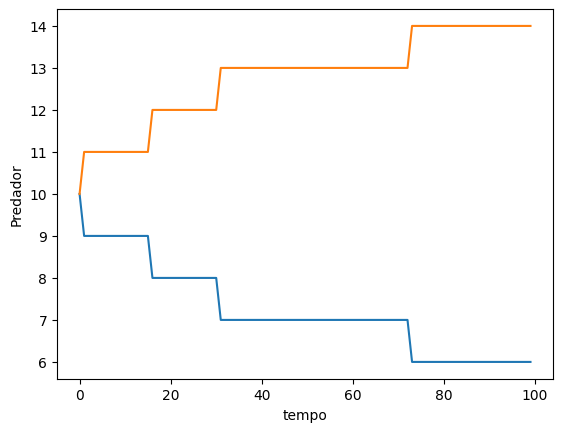
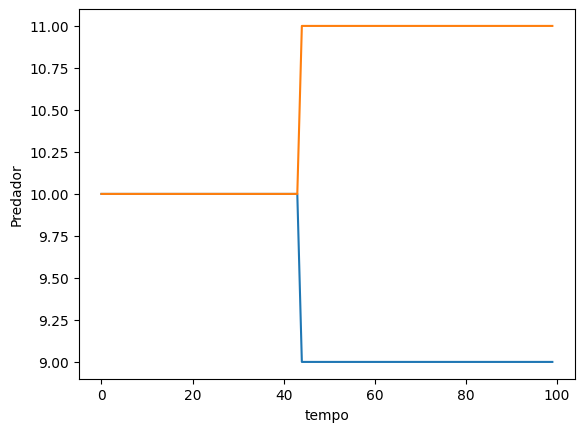
update

diff --git a/IBS_2-0.py b/IBS_2-0.py
@@ -24,7 +24,7 @@ class Predador:
     
     
 
-L = 10
+L = 50
 
 
 matrix = np.zeros((L, L))
@@ -32,26 +32,24 @@ matrix = np.zeros((L, L))
 Predadores = []
 
 def gerarPresa():
-    presa_x = np.random.randint(2,L-2)
-    presa_y = np.random.randint(2,L-2)
-    matrix[presa_x][presa_y] = 1
-    matrix[presa_x][presa_y+1] = 1
-    matrix[presa_x+1][presa_y] = 1
-    matrix[presa_x+1][presa_y+1] = 1  
+    presa_x = np.random.randint(0,L-1)
+    presa_y = np.random.randint(0,L-1)
+    matrix[presa_x][presa_y] = 2
     
 def gerarPredador():
+    IdadePredador = np.random.randint(0,4)
     predador_x = np.random.randint(0,L-1)
     predador_y = np.random.randint(0,L-1)
-    matrix[predador_x][predador_y] = 2
-    Predadores.append(Predador("M",4,[predador_x,predador_y]))
+    matrix[predador_x][predador_y] = 1
+    Predadores.append(Predador("M",IdadePredador,[predador_x,predador_y]))
 
 def popularMatriz():
     i = 0
-    while i < 5:    
+    while i < 10:    
         gerarPredador() 
         i += 1
     i = 0
-    while i <= 1:
+    while i <= 4:
         gerarPresa()
         i += 1
 
@@ -66,56 +64,47 @@ def gerarLarva(endPredador):
     
         
 
-def decidirDireçãoGeral(arrEnd, idade):
-    n = np.random.randint(0,2) 
-    p = np.random.randint(0,2)
-    
-    if matrix[arrEnd[0]][arrEnd[1]] == 1:
-        gerarLarva(arrEnd)
-        
-    if idade == 4:
-        print("pode se mover")
+def decidirDireçãoGeral(arrEnd):
+        n = np.random.randint(0,2) 
+        p = np.random.randint(0,2)
         matrix[arrEnd[0]][arrEnd[1]] = 0
         if p == 0:
-            delta = (-1)**n    
+            delta = (-1)**n
             arrEnd[1] += delta
-            if arrEnd[1] < 0 or arrEnd[1] > (L-1):
-                #print("fora da borda pela pra cima ou pra baixo")
-                if arrEnd[1] > (L-1):
-                    arrEnd[1] = 0
-                    #print("depois EIXO Y", arrEnd)
-                if arrEnd[1] < 0:
-                    arrEnd[1] = (L-1)
-                    #print("depois EIXO Y", arrEnd)
-            matrix[arrEnd[0]][arrEnd[1]] = 2
+            print("fora da borda pela pra cima ou pra baixo")
+            if arrEnd[1] > (L-1):
+                arrEnd[1] = 0
+                print("depois EIXO Y", arrEnd)
+            if arrEnd[1] < 0:
+                arrEnd[1] = (L-1)
+                print("depois EIXO Y", arrEnd)
+            matrix[arrEnd[0]][arrEnd[1]] = 1
         else:
             delta = (-1)**n
             arrEnd[0] += delta
-            if arrEnd[0] < 0 or arrEnd[0] > (L-1):
-                #print("fora da borda pelo esquerda ou direita")
-                if arrEnd[0] > (L-1):
-                    arrEnd[0] = 0
-                    #print("depois EIXO X", arrEnd)
-                if arrEnd[0] < 0:
-                    arrEnd[0] = (L-1)
-                    #print("depois EIXO X", arrEnd)
-            matrix[arrEnd[0]][arrEnd[1]] = 2
-    else:
-        print("nao pode se mover idade baixa")
-        print(arrEnd)
+            print("fora da borda pelo esquerda ou direita")
+            if arrEnd[0] > (L-1):
+                arrEnd[0] = 0
+                print("depois EIXO X", arrEnd)
+            if arrEnd[0] < 0:
+                arrEnd[0] = (L-1)
+                print("depois EIXO X", arrEnd)
+            matrix[arrEnd[0]][arrEnd[1]] = 1
         
 def moverPopulacao(ObjetoPredador):
     for i in ObjetoPredador:
-        decidirDireçãoGeral(i.getEndereco(),i.getIdade())
+        if i.getIdade() > 1:
+            decidirDireçãoGeral(i.getEndereco())
+        i.crescimentoPredador()
         
 for i in Predadores:
     print(i.getEndereco())
         
 count = 0
-while count < 20:
+while count < 50:
     moverPopulacao(Predadores)
-    cmapmine = ListedColormap(['w','b','r','g'], N=4)
-    plt.matshow(matrix, cmap=cmapmine, vmin=0, vmax=3)
+    cmapmine = ListedColormap(['w','b','r'], N=3)
+    plt.matshow(matrix, cmap=cmapmine, vmin=0, vmax=2)
     plt.title("Frame {}".format(count))
     if count > 9:
         plt.savefig("ResultadoImagens/matrix_IBS_{}.png".format(count), bbox_inches='tight')
@@ -124,11 +113,8 @@ while count < 20:
     print("count",count)
     count += 1
 
-# for i in Predadores:
-#     print("idade", i.getIdade())
-
 print(matrix)
     
-#OS.system("cd ResultadoImagens/ && convert *.png ibs.gif && rm -rf *.png")
+OS.system("cd ResultadoImagens/ && convert *.png ibs.gif && rm -rf *.png")
 
 

diff --git a/IBS_1-5.py b/IBS_1-5.py
@@ -74,33 +74,26 @@ def decidirDireçãoGeral(arrEnd, tipo):
     if p == 0:
         delta = (-1)**n
         arrEnd[1] += delta
-        if arrEnd[1] < 0 or arrEnd[1] > (L-1):
-            print("fora da borda pela pra cima ou pra baixo")
-            if arrEnd[1] > (L-1):
-                arrEnd[1] = 0
-                print("depois EIXO Y", arrEnd)
-            if arrEnd[1] < 0:
-                arrEnd[1] = (L-1)
-                print("depois EIXO Y", arrEnd)
-        if tipo == "presa":
-            matrix[arrEnd[0]][arrEnd[1]] = 1
-        else:
-            matrix[arrEnd[0]][arrEnd[1]] = 2
+        print("fora da borda pela pra cima ou pra baixo")
+        if arrEnd[1] > (L-1):
+            arrEnd[1] = 0
+            print("depois EIXO Y", arrEnd)
+        if arrEnd[1] < 0:
+            arrEnd[1] = (L-1)
+            print("depois EIXO Y", arrEnd)
+        matrix[arrEnd[0]][arrEnd[1]] = 1
     else:
         delta = (-1)**n
         arrEnd[0] += delta
-        if arrEnd[0] < 0 or arrEnd[0] > (L-1):
-            print("fora da borda pelo esquerda ou direita")
-            if arrEnd[0] > (L-1):
-                arrEnd[0] = 0
-                print("depois EIXO X", arrEnd)
-            if arrEnd[0] < 0:
-                arrEnd[0] = (L-1)
-                print("depois EIXO X", arrEnd)
-        if tipo == "presa":
-            matrix[arrEnd[0]][arrEnd[1]] = 1
-        else:
-            matrix[arrEnd[0]][arrEnd[1]] = 2
+        print("fora da borda pelo esquerda ou direita")
+        if arrEnd[0] > (L-1):
+            arrEnd[0] = 0
+            print("depois EIXO X", arrEnd)
+        if arrEnd[0] < 0:
+            arrEnd[0] = (L-1)
+            print("depois EIXO X", arrEnd)
+        matrix[arrEnd[0]][arrEnd[1]] = 1
+    
         
 def moverPopulacao(arrEnd,tipo):
     for i in arrEnd:
@@ -113,30 +106,30 @@ while count < 100:
     checaColisao()
     matrizPlotTemporalPredador.insert(count,len(coordenadasPredadores))
     matrizPlotTemporalPresa.insert(count,len(coordenadasPresas))
-    # cmapmine = ListedColormap(['w','b','r'], N=3)
-    # plt.matshow(matrix, cmap=cmapmine, vmin=0, vmax=2)
-    # plt.title("Frame {}".format(count))
-    # if count > 9:
-    #     plt.savefig("ResultadoImagens/matrix_IBS_{}.png".format(count), bbox_inches='tight')
-    # else:
-    #     plt.savefig("ResultadoImagens/matrix_IBS_0{}.png".format(count), bbox_inches='tight')
+    cmapmine = ListedColormap(['w','b','r'], N=3)
+    plt.matshow(matrix, cmap=cmapmine, vmin=0, vmax=2)
+    plt.title("Frame {}".format(count))
+    if count > 9:
+        plt.savefig("ResultadoImagens/matrix_IBS_{}.png".format(count), bbox_inches='tight')
+    else:
+        plt.savefig("ResultadoImagens/matrix_IBS_0{}.png".format(count), bbox_inches='tight')
     count += 1
 
-def plotTemporalPopulacao():
-    plt.plot(matrizPlotTemporalPresa)
-    plt.ylabel('Presa')
-    plt.xlabel('tempo')
-    plt.savefig("graficoTemporal/Presa", bbox_inches='tight')
+# def plotTemporalPopulacao():
+#     plt.plot(matrizPlotTemporalPresa)
+#     plt.ylabel('Presa')
+#     plt.xlabel('tempo')
+#     plt.savefig("graficoTemporal/Presa", bbox_inches='tight')
 
-    plt.plot(matrizPlotTemporalPredador)
-    plt.ylabel('Predador')
-    plt.savefig("graficoTemporal/Predador", bbox_inches='tight')
+#     plt.plot(matrizPlotTemporalPredador)
+#     plt.ylabel('Predador')
+#     plt.savefig("graficoTemporal/Predador", bbox_inches='tight')
     
 
-plotTemporalPopulacao()
+#plotTemporalPopulacao()
 
     
     
-#OS.system("cd ResultadoImagens/ && convert *.png ibs.gif && rm -rf *.png")
+OS.system("cd ResultadoImagens/ && convert *.png ibs.gif && rm -rf *.png")
 
 

diff --git a/IBS_1-0.py b/IBS_1-0.py
@@ -172,31 +172,31 @@ while count < 100:
     moverPredador()
     moverPresa()
     checaColisao()
-#    cmapmine = ListedColormap(['w','b','r'], N=3)
+    cmapmine = ListedColormap(['w','b','r'], N=3)
     matrizPlotTemporalPredador.insert(count,len(coordenadasPredadores))
     matrizPlotTemporalPresa.insert(count,len(coordenadasPresas))
-    # plt.matshow(matrix, cmap=cmapmine, vmin=0, vmax=2)
-    # plt.title("Frame {}".format(count))
-    # if count > 9:
-    #     plt.savefig("ResultadoImagens/matrix_IBS_{}.png".format(count), bbox_inches='tight')
-    # else:
-    #     plt.savefig("ResultadoImagens/matrix_IBS_0{}.png".format(count), bbox_inches='tight')
+    plt.matshow(matrix, cmap=cmapmine, vmin=0, vmax=2)
+    plt.title("Frame {}".format(count))
+    if count > 9:
+        plt.savefig("ResultadoImagens/matrix_IBS_{}.png".format(count), bbox_inches='tight')
+    else:
+        plt.savefig("ResultadoImagens/matrix_IBS_0{}.png".format(count), bbox_inches='tight')
     count += 1
 
-def plotTemporalPopulacao():
-    plt.plot(matrizPlotTemporalPresa)
-    plt.ylabel('Presa')
-    plt.xlabel('tempo')
-    plt.savefig("graficoTemporal/Presa", bbox_inches='tight')
+# def plotTemporalPopulacao():
+#     plt.plot(matrizPlotTemporalPresa)
+#     plt.ylabel('Presa')
+#     plt.xlabel('tempo')
+#     plt.savefig("graficoTemporal/Presa", bbox_inches='tight')
 
-    plt.plot(matrizPlotTemporalPredador)
-    plt.ylabel('Predador')
-    plt.savefig("graficoTemporal/Predador", bbox_inches='tight')
+#     plt.plot(matrizPlotTemporalPredador)
+#     plt.ylabel('Predador')
+#     plt.savefig("graficoTemporal/Predador", bbox_inches='tight')
     
 
-plotTemporalPopulacao()
+# plotTemporalPopulacao()
 
 
-#OS.system("cd ResultadoImagens/ && convert *.png ibs.gif && rm -rf *.png")
+OS.system("cd ResultadoImagens/ && convert *.png ibs.gif && rm -rf *.png")
 
 

diff --git a/metropolis-hasting/main.py b/metropolis-hasting/main.py
@@ -1,0 +1,51 @@
+import matplotlib.pyplot as plt
+import random
+import math
+
+pi = math.pi
+e = math.e
+
+Range = 0.5
+arrPontos = [1,6]
+Resultado_Paux = []
+Resultado_Fdp = []
+
+def Xtil(Xzero, Xfinal, X):                                     #Xtil ta em função de x
+    return Xzero + (((X)*(Xfinal - Xzero)))                     #X nesse caso é 0.3, mas sempre sera aleatorio
+                                                         
+
+def FDP(Xtil,Xzero):                                                                                          
+    return (1/(math.sqrt(2*pi)))*(e**(0.5*((Xtil/Xzero)**2)))                #essa FDP é um exemplo; FDP em funçao de Xtil                                   #return Xzero-(Xzero*((1-Xtil)**2))
+    
+
+
+while True:
+    alpha = random.uniform(0.0, 2.0)
+    beta  = random.uniform(0.0, 2.0)
+    
+    Xzero  = arrPontos[0]
+    Xfinal = Xzero + Range
+    print("xzero1", Xzero)
+    
+    Paux = alpha                                            #Probabilidade auxiliar
+    X = beta                                                #variavel independente (extocastica)
+    ResultadoFDP = FDP(Xtil(Xzero,Xfinal, X),arrPontos[0])
+    
+    if Paux <= ResultadoFDP:
+        print("bom sorteio")
+        Resultado_Paux.append(Paux)
+        Resultado_Fdp.append(ResultadoFDP)    
+        arrPontos[0] = Xfinal
+        print("xzero2", Xzero)
+    
+    if Xfinal == arrPontos[1]:
+        break
+    
+print(Resultado_Fdp)
+print(Resultado_Paux)
+
+produtos = ["produto a","produto b","produto c","produto d","produto e",]
+numero = [1,2,3,4,5]
+
+plt.plot(Resultado_Paux,Resultado_Fdp)
+plt.show()
